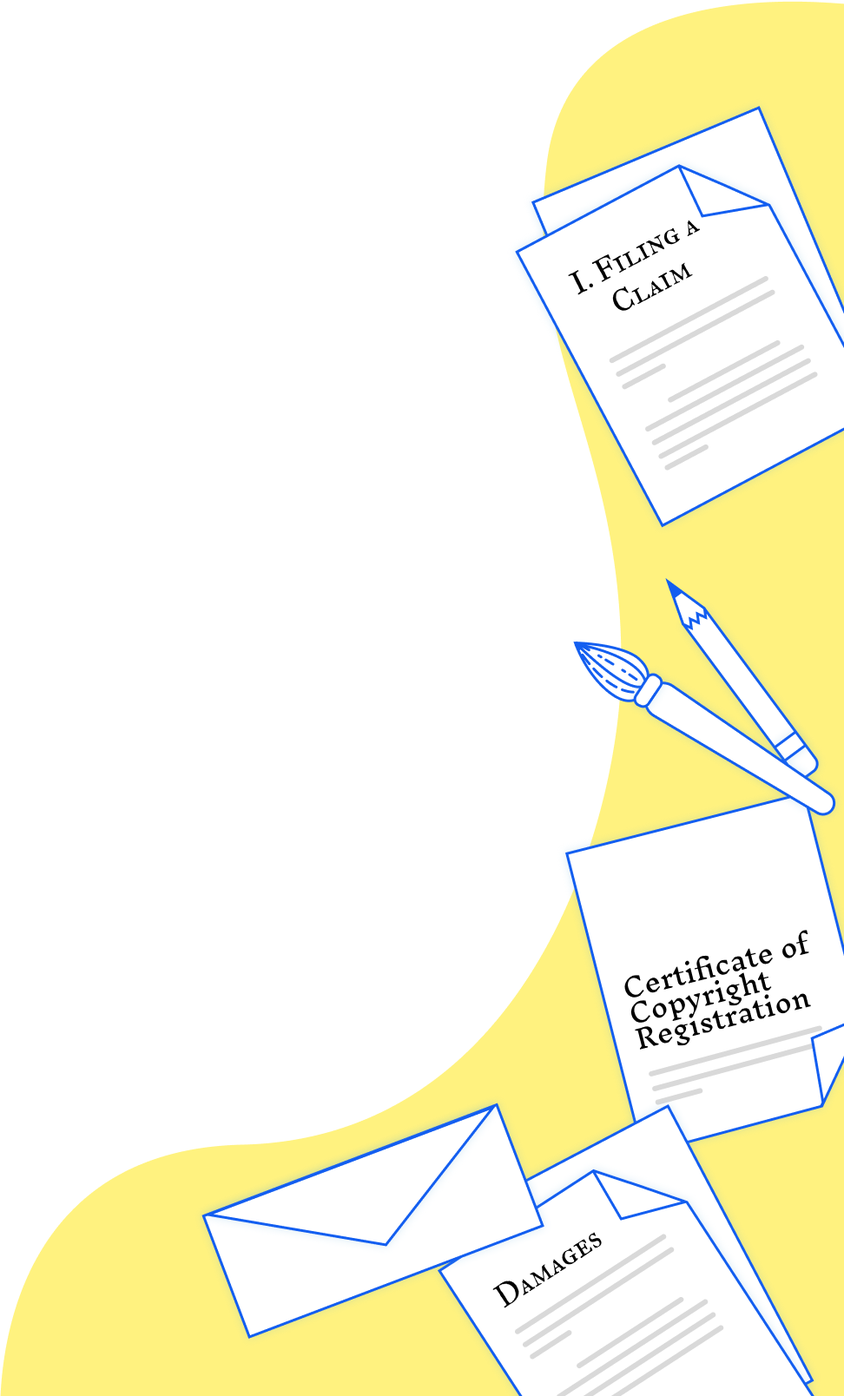
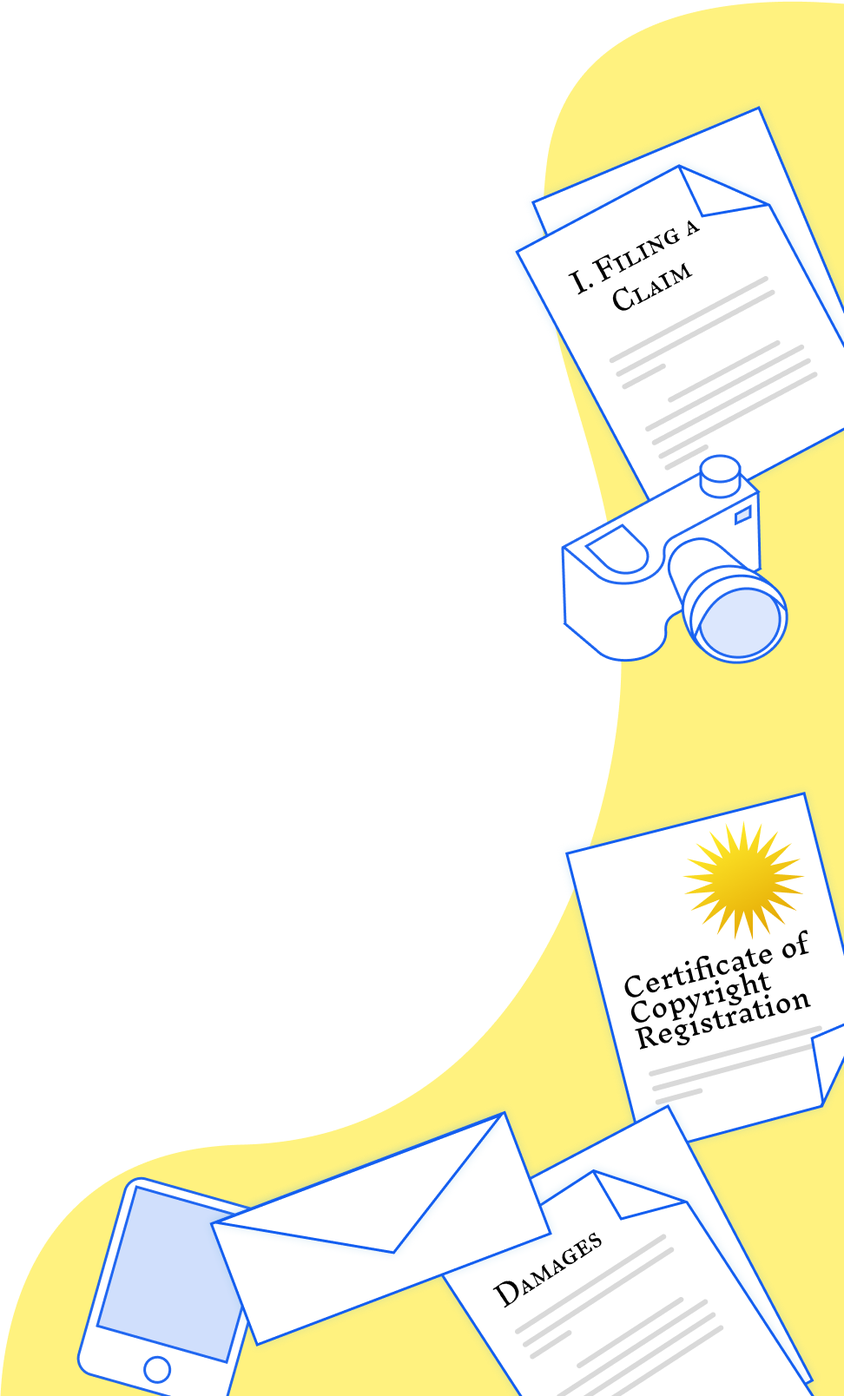
Footnotes, updated copy, fixed cover art

Changed region(s): [[0.6481, 0.3109, 0.9877, 0.6841], [0.0926, 0.7774, 0.6173, 1.0], [0.5556, 0.8396, 0.6481, 0.9017]]

diff --git a/index.html b/index.html
@@ -120,8 +120,8 @@
 
 				<h2>About the guide</h2>
 
-				<p>Maybe you are a creator who feels their work was copied and wants to set things right. Maybe you recently received a claim that you copied someone else’s work. Or maybe you’re just curious about the Copyright Claims Board (CCB). 
-				Regardless of what brought you here, this document is a starting point and a guide for creators. This guide helps you navigate the CCB, but it is not comprehensive, and there will be moments when outside resources are pointed to for additional guidance.</p>
+				<p>Maybe you are a creator who feels their work was copied and wants to set things right. Maybe you recently received a claim that you copied someone else’s work. Or maybe you’re just curious about the Copyright Claims Board (CCB).</p>
+				<p>Regardless of what brought you here, this document is a starting point and a guide for creators. This guide helps you navigate the CCB, but it is not comprehensive, and there will be moments when outside resources are pointed to for additional guidance.</p>
 
 				<img src="assets/Meet Characters.svg" alt="Images of three figures asking questions about their intellectual property issues" />
 			</div>
@@ -131,11 +131,11 @@
 			<div class="section" id="what-is-copyright">
 				<h1>What is copyright?</h1>
 
-				<p>Imagine you spend hours painting a beautiful landscape—after weeks of work, you upload an image of your painting to share with the world in your online portfolio. A few days later, you see a copy of your painting sold as a print on an online marketplace. Have your intellectual property rights been violated?</p>
+				<p><span class="blue">Imagine you spend hours painting a beautiful landscape—</span>after weeks of work, you upload an image of your painting to share with the world in your online portfolio. A few days later, you see a copy of your painting sold as a print on an online marketplace. Have your intellectual property rights been violated?</p>
 
-				<p>Intellectual property refers to creations of the mind, such as inventions and artistic works [ ]. Intellectual property rights allow individuals to protect their work by preventing others from reproducing or exploiting their intellectual creations [ ]. Intellectual property rights include copyrights, patents, trademarks, and design rights [2]. We’re focusing on copyright here.</p>
+				<p><span class="blue">Intellectual property refers to creations of the mind, such as inventions and artistic works <a href="#footnote-1">[1]</a>.</span> Intellectual property rights allow individuals to protect their work by preventing others from reproducing or exploiting their intellectual creations <a href="#footnote-2">[2]</a>. Forms of intellectual property include copyright, patent, and trademark <a href="#footnote-2">[2]</a>. We’re focusing on copyright here. Copyright is the body of law that deals with the ownership and use of works such as software, architecture, art, and music <a href="#footnote-3">[3]</a>.</span>
 
-				<p>Copyright is “the body of law that deals with the ownership and use of works of literature, music, and art.”[ ] The basic purpose of copyright is to “enrich our society's wealth of culture and information.”[3] Congress draws power from the US Constitution to enact copyright laws to “promote the progress of science and useful arts[.]”[ ] Because more than one person can share intellectual property simultaneously, copyright law helps protect artistic labor by creating a boundary around what is and isn’t for the artist to own. In this way, copyright law promotes innovation because artists know they can be paid for their work. Copyrights eventually expire if not renewed, returning works to the public domain [20].</p>
+				<p>Copyright laws “promote the progress of science and useful arts . . .” <a href="#footnote-4">[4]</a> because they incentivize people to develop new intellectual property. Copyright law protects artistic labor by creating a boundary around what work creators can guard through legal protections. In this way, copyright law promotes innovation because artists know they can be paid for their protected work. The basic purpose of copyright is to “enrich our society's wealth of culture and information” <a href="#footnote-3">[3]</a>.</p>
 
 
 				<br>
@@ -145,26 +145,27 @@
 				<h4>Copyright Upon Fixation</h4>
 				<span class="blue">The right to register a work for copyright</span>
 
-				<p>Today, creators earn a copyright upon fixation after completing their work.  Creators’ works are automatically copyrighted upon “fixation” [ ]. To qualify for fixation, a work must be:</p>
+				<p>Today, creators earn a copyright upon fixation after completing their work <a href="#footnote-7">[7]</a>. Creators’ works are automatically copyrighted upon <span class="blue">“fixation”</span><a href="#footnote-8">[8]</a>. To qualify for fixation, a work must be:</p>
 
 				<ol>
 					<li>fixed in a tangible medium of expression (e.g. a musical work on a record),</li>
-					<li>perceived, reproduced, or otherwise communicated, either directly or with the aid of a machine or device [5].</li>
+					<li>perceived, reproduced, or otherwise communicated, either directly or with the aid of a machine or device <a href="#footnote-8">[8]</a>.</li>
 				</ol>
 
 				<p>Thinking back to the landscape painting example—the work is fixed as soon as you finish the painting. At that moment, you earn a copyright over the work.</p>
 
-				<p>With fixation, you gain the right to register for a copyright to protect it. Beyond that, copyrights alone do not establish legal protections. This is why the U.S. Copyright Office recommends that creators still register their work for copyright to publicly record their ownership status [ ].</p>
+				<p>With fixation, you gain the right to register for a copyright of your work. Copyright gives you the legal right to exclude others, but you can't defend your work by suing until you register. This is why the U.S. Copyright Office recommends that creators still register their work for copyright to publicly record their ownership status <a href="#footnote-9">[9]</a>.</p>
 				
+
 				
-				<h4>Copyright Registration</h4>
+				<h4>Registered Copyright</h4>
 				<span class="blue">The right to legally defend your work</span>
 				
-				<p>Unlike copyrights upon fixation, copyright registration creates legal benefits.   You cannot bring a claim or litigate an issue of copyright without registering your copyright.  Upon fixation, you gain the right to register for copyright, but you do not necessarily earn the right to defend your copyright legally without registration. You must have a registered copyright to bring infringement claims and seek monetary relief through the legal system. This is the key distinction between copyright and copyright registration [6].
+				<p>Unlike copyrights upon fixation, <span class="blue">copyright registration creates legal benefits. You cannot bring a claim or litigate an issue of copyright without registering your copyright <a href="#footnote-10">[10]</a></span>. Upon fixation, you gain the right to register for copyright, but you do not necessarily earn the right to defend your copyright legally without registration. You must have a registered copyright to bring infringement claims and seek monetary relief through the legal system. This is the key distinction between copyright and a registered copyright.</p>
 
 				<br>
 				<h4>How do you register for a copyright?</h4>
-				<p>Applying for registration requires an application, a filing fee ($65), and a copy of the work (which the Office calls a “deposit”) [ ], [22]. You can bring a claim by filing a complaint to a federal court or by filing your claim online with the Copyright Claims Board. Once again, you can copyright many different forms of art. These forms of art include digital art (like photography), physical art (like painting or sculpture), and musical works (like musical composition). Before looking at how to bring a claim at the CCB, let’s look more closely at some terms you may want to familiarize yourself.</p>
+				<p>Applying for registration requires an application, a filing fee ($65), and a copy of the work (which the Office calls a “deposit”) <a href="#footnote-11">[11]</a>, <a href="#footnote-6">[6]</a>. Once again, you can copyright many different forms of art. These forms of art include digital art (like photography), physical art (like painting or sculpture), and musical works (like musical composition). Once you have a registered copyright, you can bring a claim against another party at the CCB or federal court. The CCB importantly requires you to have a registered or pending copyright to bring infringement claims. Before looking at how to bring a claim at the CCB, let’s look more closely at some terms you may want to familiarize yourself.</p>
 				<br>
 
 				<div class="box">
@@ -184,24 +185,26 @@
 			<div class="section"  id="what-is-ccb">
 				<h1>What is the Copyright Claims Board (CCB)?</h1>
 
-				<p>In December 2020, the Copyright Alternative in Small-Claims Enforcement Act of 2020 (CASE Act) endowed the Copyright Office with the power to establish the Copyright Claims Board (called the “CCB”) [ ]. The CCB was established by the federal government with the goal of expanding “access to justice” making “the copyright system as understandable and accessible to as many members of the public as possible.” [ ]</p>
+					<p>In December 2020, the Copyright Alternative in Small-Claims Enforcement Act of 2020 (CASE Act) gave the Copyright Office the power to establish the Copyright Claims Board (called the “CCB”) <a href="#footnote-12">[12]</a>. The CCB was established by the federal government with the goal of expanding “access to justice” making “the copyright system as understandable and accessible to as many members of the public as possible.” <a href="#footnote-13">[13]</a></p>
 
-				<p>The CCB is the Copyright Office’s approach to resolving copyright disputes online. Three presiding officers, each with deep expertise in copyright law, make case determinations and lead the CCB. Court hearings and proceedings are conducted fully online, removing the barrier to entry that can occur when proceedings occur in court. The CCB is designed for claimants to navigate without an attorney, though you are welcome to hire one. Although litigants can represent themselves in federal court, some may find this easier to do in the CCB’s claim process.</p>
+					<p>The Copyright Office’s approach to resolving copyright disputes online is the CCB. Three presiding officers, each with deep expertise in copyright law, make case determinations and lead the CCB. Court hearings and proceedings are conducted <span class="blue">fully online</span>, reducing the barrier to entry that can occur when proceedings occur in court. The CCB is designed for claimants to navigate without an attorney, though you are welcome to hire one. Although litigants can represent themselves in federal court, some may find this easier in the CCB’s claim process. </p>
 
-				<p>The CCB sees all kinds of copyright cases. As of 2023, the most common claims were for pictorial, graphic, or sculptural works. Architectural claims (e.g. based on an architectural firm’s design of a home) were the least common.</p>
+					<p>The CCB sees all kinds of copyright cases. As of 2023, the most common claims were for pictorial, graphic, or sculptural works.</p>
 
 				<br>
 				<img src="assets/CCB-pie-chart.svg" alt="A pie chart showing the distribution of types of work represented in CCB claims between 6/16/2022 to 10/31/2022" />
-				<div class="caption">This chart is based on data provided by the Library of Congress [ ].</div>
+				<div class="caption">This chart is based on data provided by the Library of Congress <a href="#footnote-14">[14]</a>.</div>
 				<br>
+								
+				<p>Unlike federal court, the CCB’s <span class="blue">jurisdiction is limited</span> to claims for copyright infringement, noninfringement, and misrepresentation in situations involving notices sent under the Digital Millennium Copyright Act (DMCA) <a href="#footnote-15">[15]</a>, <a href="#footnote-16">[16]</a>.</p> 
 
-				<p>Unlike federal court, the CCB’s jurisdiction is limited to claims of copyright infringement, claims seeking declarations that specific activities do not infringe copyright; and claims of “misrepresentation” in notices sent under the Digital Millennium Copyright Act (DMCA).</p>
+				<p><span class="blue">Notably, participation in the CCB is also fully voluntary.</span> While a claimant (the person who brings the claim to the CCB) may raise a valid argument, a respondent (the person who responds to the claim) can decide whether to participate in CCB proceedings (more on this later). If a respondent chooses to opt out, a claimant can still bring a lawsuit against that respondent in federal court. </p>
 
-				<p>Notably, participation in the CCB is also fully voluntary. While a claimant may raise a valid argument, respondents can decide whether to participate in CCB proceedings (more on this later). If a respondent chooses to opt out, a claimant can still bring a lawsuit against that respondent in federal court.</p>
+				<p>A respondent can also file a counterclaim, or a claim rebutting the claimant’s original claim. If a respondent files a counterclaim, it must be related to the original claim. Counterclaims are also limited to the types of claims in the CCB’s jurisdiction and must arise from the same “transaction or occurrence” (the same facts and circumstances) as the original claim. </p>
+				
+				<p>Neither party can bring a claim before the CCB seeking more than $30,000 in
+				total damages (more on this later, as well!).</p>
 
-				<p>If a respondent files a counterclaim, it must be related to the original claim. Counterclaims are also limited to the types of claims in the CCB’s jurisdiction and must arise from the same “transaction or occurrence” (the same facts and circumstances) as the original claim.</p>
-
-				<p>Neither party can bring a claim before the CCB seeking more than $30,000 in total damages (more on this later, as well!).</p>
 			</div>
 
 			<div class="content-divider"></div>
@@ -228,8 +231,8 @@
 					</li>
 					<li>The CCB is a more approachable court system.
 					<ul>
-						<li>The CCB is entirely online, and there are some advantages to a digital court system. There are text boxes to input information in the CCB’s online forms.</li>
-						<li>This helps you to figure out the information you need to file a claim and navigate court proceedings.</li>
+						<li>The CCB is entirely online, and there are some advantages to a digital court system. The CCB’s online forms have text boxes for input information.</li>
+						<li>The online forms will help you figure out the information you need to file a claim and navigate court proceedings.</li>
 					</ul></li>
 					<li>There is a low filing fee—filing your claim and proceedings to an active case require $40 and $60, respectively.</li>
 					<li>The administration is fully remote, negotiating travel costs and conflicts with other commitments.</li>
@@ -287,9 +290,9 @@
 				<p>When you file a claim, you’ll need to indicate the compensation you are owed. The list below summarizes some issues to consider:</p>
 				<ul>
 					<li>The CCB only allows for actual or statutory damages. If you think you have a better chance of seeking higher damages in federal court, then the CCB may not be your best option.</li>
-					<li>If you are seeking damages under $5,000, you may want to consider filing under a simplified CCB “Smaller Claims” track. This track will involve only one presiding officer, who plays a more prominent role in the case. The CCB published a helpful table highlighting the key differences between this track and the default track in its handbook for Smaller Claims (Page 3).</li>
-					<li>A claimant bringing an infringement claim can seek an award of actual damages and the infringer’s profits, statutory damages, or no damages. The claimant must choose which type of awards they are seeking before the Board makes its final determination, and they should do this no later than when the claimant submits their written testimony in the proceeding. Statutory damages are capped at $15,000 per infringed work (not per infringement) or $7,500 if the work wasn’t registered in a timely manner (as described below under “Statutory Damages”).  For more information on damages, see the CCB book on statutory damages.</li>
-					<li>If you choose to participate in CCB-facilitated settlement discussions, a Copyright Claims Officer other than the one handling the day-to-day aspects of the proceeding will be assigned to assist you at a settlement conference. For more information on settlements, see the CCB handbook on settlements (Page 4).</li>
+					<li>If you are seeking damages under $5,000, you may want to consider filing under a simplified CCB “Smaller Claims” track. This track will involve only one presiding officer, who plays a more prominent role in the case. The CCB published a helpful table highlighting the key differences between this track and the default track in its handbook for <a href="https://ccb.gov/handbook/Smaller-Claims.pdf">Smaller Claims (Page 3)</a>.</li>
+					<li>A claimant bringing an infringement claim can seek an award of actual damages and the infringer’s profits, statutory damages, or no damages. The claimant must choose which type of awards they are seeking before the Board makes its final determination, and they should do this no later than when the claimant submits their written testimony in the proceeding. Statutory damages are capped at $15,000 per infringed work (not per infringement) or $7,500 if the work wasn’t registered in a timely manner (as described below under “Statutory Damages”).  For more information on damages, <a href="https://ccb.gov/handbook/Damages.pdf">see the CCB book on statutory damages.</a></li>
+					<li>If you choose to participate in CCB-facilitated settlement discussions, a Copyright Claims Officer other than the one handling the day-to-day aspects of the proceeding will be assigned to assist you at a settlement conference. For more information on settlements, see the <a href="https://ccb.gov/handbook/Settlement.pdf">CCB handbook on settlements (Page 4)</a>.</li>
 				</ul>
 
 			</div>
@@ -368,7 +371,7 @@
 
 			<div class="section" id="ccb-stages">
 				<h2>What is the claims process like?</h2>
-				<p>This section of the Creator Guide summarizes information from the CCB’s handbooks. These handbook chapters offer specific information about each stage of a claim. For more information on the claims process, please consult the CCB’s complete list of handbooks [24].</p>
+				<p>This section of the Creator Guide summarizes information from the CCB’s handbooks. These handbook chapters offer specific information about each stage of a claim. For more information on the claims process, please consult the CCB’s complete list of handbooks <a href="#footnote-19">[19]</a>.</p>
 
 				<div class="ccb-stage-header collapsed-content" for="ccb-stage-1">
 					<span class="stage-number">Stage 1:</span> Filing a Claim</div>
@@ -470,7 +473,7 @@
 
 			<div class="section" id="making-a-strong-claim">
 				<h2>What makes a claim strong?</h2>
-				<p>While the CCB’s filing forms will guide you through this process, there are some fields that you may want to consider more carefully. The strength of your claim is generally evaluated based on whether you can prove each element of that claim – you must satisfy all the elements of the claim to prevail in your case. The CCB’s presiding officers will look at the evidence submitted and the cases you make to determine whether you have satisfied these elements. You will also need to show the officers that you will be able to prove each element of your claim to survive compliance review [11].  Remember to answer these questions about how you can support each element when drafting a claim.</p>
+				<p>While the CCB’s filing forms will guide you through this process, there are some fields that you may want to consider more carefully. The strength of your claim is generally evaluated based on whether you can prove each element of that claim – <span class="blue">you must satisfy all the elements of the claim</span> to prevail in your case. The CCB’s presiding officers will look at the evidence submitted and your argument to determine whether you have satisfied these elements. Even when describing your claim in your initial filing, you may want to show the CCB officers <span class="blue">that you will later be able to prove the essential elements of your copyright claim</span> <a href="#footnote-20">[20]</a>. Remember to answer these questions about how you can support each element when drafting a claim.</p>
 
 				<h4>Infringement Claims</h4>
 				<table class="claims-table">
@@ -482,19 +485,18 @@
 					</thead>
 					<tr>
 						<td class="claims-table-col-1">
-							You must have ownership of a valid copyright. Your work must be registered or pending registration.
+							You must have ownership of a valid (or pending) copyright. 
 						</td>
 						<td class="claims-table-col-2">
-							Did you assign the copyright to someone else? <br><br>
-							Are you still a beneficial owner of the copyright?<br><br>
-							Are there multiple authors involved? If this is a work of “joint authorship” any of the joint authors can enforce the copyright.<br><br>
-							Was this a work for hire? “Employers” who commission work are “authors” under the law.
+							Did you assign the copyright to someone else? 
+							Are there multiple authors involved <a href="#footnote-18">[18]</a>? 
+							Was this a work for hire <a href="#footnote-21">[21]</a>? If so, you may not own the rights to the work.
 						</td>
 						<td class="claims-table-col-3">
-							Communications (digital or print) supporting your copyright registration. 
+							Proof that you, and you alone, created the work.
 						</td>
 						<td class="claims-table-col-4">
-							A screenshot of the email confirming your copyright registration or a picture of your copyright registration.
+							A screenshot or picture of your work from the day that you signed your work with a date of creation; a screenshot or scan of your certificate of registration.
 						</td>
 					</tr>
 					<tr>
@@ -542,9 +544,7 @@
 				<br><br><br>	
 				<h4>Noninfringement Claims</h4>
 				
-				<p>Noninfringement claims are very similar to infringement claims, but with one key difference: you need to prove that you and the respondent are in a genuine dispute over whether there is infringement. If you can prove this, the respondent's burden will fall on them to prove every element of infringement outlined above. </p>
-				
-				<p>The elements in this case do not map exactly onto the types of evidence you may want to present, but note the elements first before reviewing types of evidence:</p>
+				<p>You may bring a noninfringement claim if the respondent accused you of infringing on their work, but you disagree and want to legally establish that your conduct does not establish infringement. Noninfringement claims are very similar to infringement claims, but with one key difference: you need to prove that you and the respondent are in a genuine dispute over whether there is infringement. If you can prove a dispute, the respondent will need to prove every element of infringement outlined above. </p> 
 
 				<table class="claims-table">
 					<thead>
@@ -562,7 +562,7 @@
 						</td>
 						<td class="claims-table-col-3">
 							A screenshot of the letter.<br><br>
-							A timestamp demonstrating the date of creation was before the other work was created.
+							A cease-and-desist letter from the respondent or other correspondence to indicate that you are in a copyright dispute.
 						</td>
 					</tr>
 					<tr>
@@ -573,7 +573,7 @@
 							The takedown notice of your content that is attributable to the respondent.
 						</td>
 						<td class="claims-table-col-3">
-							A screenshot of the letter.
+							A screenshot of the notice.
 						</td>
 					</tr>
 					<tr>
@@ -581,10 +581,10 @@
 							The respondent’s accusations have interfered with your activities.
 						</td>
 						<td class="claims-table-col-2">
-							Proof that the respondent does not have exclusive rights to the work.
+							Proof that you changed your own plans because of the respondent’s accusations.
 						</td>
 						<td class="claims-table-col-3">
-							An image of the copyright holder’s registration from the Copyright Office.
+							Records that you changed your plans (e.g. you delayed the release of your own work) or changed your work in response to the respondent.
 						</td>
 					</tr>	
 					<tr>
@@ -592,10 +592,10 @@
 							The respondent told someone else that your activities constituted infringement.
 						</td>
 						<td class="claims-table-col-2">
-							Proof that the work that you made and the work the respondent claims has been infringed are in fact different.
+							Communications by the respondent with these accusations.
 						</td>
 						<td class="claims-table-col-3">
-							Screenshots of the works and notes about their key differences.
+							A screenshot or copy of the communications sent.
 						</td>
 					</tr>																																
 				</table>
@@ -682,8 +682,7 @@
 							Images or screenshots showing the difference between how the online service provider acted with the information as opposed to how they normally act.
 						</td>
 						<td class="claims-table-col-4">
-							Screenshot or image of emails sent between you and the service provider about the misrepresentation.<br><br>
-							Image or screenshot of the service providers content moderation policy.
+							Screenshot or image of emails sent between you and the service provider about the misrepresentation.
 						</td>
 					</tr>
 					<tr>
@@ -721,7 +720,7 @@
 					<li><input type="checkbox" checked>Include a detailed description of your claim and how it fulfills each element, with screenshots and digital evidence supporting each assertion.</li>
 					<li><input type="checkbox" checked>If you amend and refile, submit your refile by the deadline in your scheduling order.</li>
 					<li><input type="checkbox" checked>Serve your respondent the materials given to you by the CCB and check the service rules in your respondent's state to ensure compliance with the specific service rules.<br>
-					<class="blue">Remember that your service will not comply if:</class="blue">
+					<span class="blue">Remember that your service will not comply if:</span>
 					<ul>
 						<li>You or an involved party delivered a copy of the materials.</li>
 						<li>You included other materials in the service packet.</li>
@@ -745,22 +744,40 @@
 					<p>If you feel that any of these technologies have infringed on your work or choose to use them in your work, you might want to consider a few things before bringing your claim to the CCB. This area of the law is evolving and subject to change.</p>
 
 					<h4>ARTIFICIAL INTELLIGENCE & ART</h4>
-					<p>Artificial intelligence tools, like DALL-E or Midjourney, are trained on images from around the world. If you have posted images of your art online, AI tools have likely used these images to develop and create new images.
-					If you see an image from AI that looks like a work you created, you may feel that the AI tool infringed your copyright. In our current copyright climate, AI companies may argue that their AI-based images are “fair use” and do not infringe copyright protection [17].</p>
 
-					<p>If you think of using AI to create new artwork, you may struggle to register the generated work. The Copyright Office believes that AI is not human and does not deserve copyright protection [16], [17]. Your AI artwork might lose copyright protections.</p>
+					<p>Generative Artificial Intelligence (GAI) models, like those powering DALL-E, Midjourney, and Stable Diffusion, are trained on images from all over the Internet. If you have posted images of your art online, AI tools have likely used these images to develop and create new images. AI thus creates two main copyright issues: inputs and outputs. Creators have argued that both AI inputs and outputs raise copyright issues.</p>
 
-					<p>While the current copyright landscape for AI may seem bleak, it is important to remember that the Copyright Office has adapted many policies over the 20th and 21st centuries to accommodate new forms of technology. It may only be a matter of years before the office begins to recognize AI’s impact on copyright law. One of the issues for the office may be the confluence of ideas and expression. For example, does a creator own the text they input into an AI image generator? If cases continue to raise issues related to AI and copyright, it might force the office to reconsider how AI is understood.</p>
+					<p><strong>Inputs •</strong> Because AI trains on images publicly available on the Internet, generative AI systems can learn from images in their training process. As a creator, you may worry that your protected work was used to enrich one of these models.</p>
+
+					<p><strong>Outputs •</strong> AI can also generate images that appear substantially like an existing work or a creator’s unique art style. By training on existing images, generative AI borrows from pre-existing works.</p>
+
+					<p>If you see an image from AI that looks like a work you created, you may feel that the AI tool infringed your copyright. In our current copyright climate, AI developers may argue that AI-based images are “fair use” and do not infringe copyright protection <a href="#footnote-23">[23]</a>. Whether or not you can bring a claim of copyright infringement against an AI tool that generated an image like your own or used your image to generate a new image is still up for debate.</p>
 
 					<br><br>
+
+					<p><strong>Can you own copyrights for works that you used GAI models to create?</strong></p>
+					<br>
+					<p>If you used AI to create a new artwork or a portion of an artwork, whether you can claim copyright for your work depends on a variety of factors. The Copyright Office’s current position is that only human creators can earn copyright protection. AI (or even an animal!) creators are therefore excluded from protection <a href="#footnote-32">[32]</a>, <a href="#footnote-23">[23]</a>. “When an AI technology determines the expressive elements of its output, the generated material is not the product of human authorship. As a result, that material is not protected by copyright and must be disclaimed in a registration application” <a href="#footnote-33">[33]</a>.</p>
+
+					<p>On the other hand, in the case of works “containing AI-generated material, “the Office will consider whether the AI contributions are the result of ‘mechanical reproduction’ or instead of an author's “own original mental conception, to which [the author] gave visible form” <a href="#footnote-33">[33]</a>. In this sense, whether your AI work can earn copyright protection is a case-by-case inquiry <a href="#footnote-33">[33]</a>. The work must have sufficient human input to constitute human authorship and, consequently, copyright protections. For example, “a human may select or arrange AIgenerated material in a sufficiently creative way that “the resulting work as a whole constitutes an original work of authorship” <a href="#footnote-33">[33]</a>. In sum, whether you can earn copyright protection for a work with partial AI influence will depend on how much AI was used in your work and how you used AI in your creative process. Simply inputting a prompt into an AI generator tool to create an image is probably not enough to earn authorship rights.</p>
+
+					<br><br>
+
+					<p><strong>Can AI models own copyrights to the works that they are used to create?</strong></p>
+
+					<p>It is “well established” that copyright can only protect work created by human authors <a href="#footnote-33">[33]</a>. AI models are not human and cannot own copyright rights <a href="#footnote-32">[32]</a>, <a href="#footnote-23">[23]</a> based on the Copyright Office’s current policy. While the current copyright landscape for AI may be lagging the pace of AI development, it is important to remember that the Copyright Office has adapted many policies over the 20th and 21st centuries to accommodate new forms of technology. It may only be a matter of years before the Office begins to recognize AI’s impact on copyright law. One of the issues for the office may be  the confluence of ideas and expression. For example, does a creator own the text they input into an AI image generator? It is important to remember, as well, that the amount of original expression within a work can determine copyright outcomes. If cases continue to raise issues related to AI and copyright, the office might reconsider how AI is interpreted.</p>
+
 					<h4>NFTS & THE BLOCKCHAIN</h4>
 
-					<p>Like AI art, non-fungible tokens (NFTs) form a complicated copyright portrait. You may want to bring a claim of infringement if you sold an NFT and did not transfer the copyright ownership to your buyer or if you bought an NFT and owned the copyright, but the creator continues to license the image. Ownership “over the intellectual property of an NFT is not always clearly defined” [22]. When an NFT is minted or sold, “a blockchain’s smart contract will automatically execute the transfer of ownership, including any rules applicable to the NFT like terms of purchase or resale opportunities” [22]. This “often means that when an NFT is traded, a license that informs collectors about what they can and can’t do with their new asset goes along with it” [22]. As legal scholars James Grimmelmann, Yan Ji, and Tyler Kell claim:</p>
-						<p class="quote-block">"If you buy an oil painting from an artist, you don’t also receive ownership of the copyright. Yes, you own the original, but the artist retains the copyright, and they can sell prints of it if they like. If you want to buy the copyright too, you’ll need to get a separate agreement. The same is true for NFTs. Unless an NFT explicitly gives owners copyright interests as opposed to just access to the artwork, owners should not assume that they have any rights to use the artwork or to stop others from using it [21]."</p>
+					<p>Like AI art, non-fungible tokens (NFTs) invoke complicated copyright questions. NFTs allow creators to introduce artistic images onto the blockchain, seamlessly transferring ownership to an NFT. This seamless transfer of ownership also poses new challenges. Because of the blockchain’s decentralized design, when creators transfer NFTs to others, they must also transfer a “key” to the block holding the NFT. Once a buyer has this key, they technically own the NFT but may not own the copyright. An NFT creator must separately transfer the copyright ownership to a buyer to give them the rights associated with the copyright. As an NFT creator, it is your choice whether you want to transfer the exclusive rights that come with a registered copyright to a buyer. </p>
 
-					<p>Individuals who seek to sell NFT artwork should also consider whether they seek to sell the copyright of their work. They might want to only give holders the rights to “use, copy and display” the NFT, for example. If you are the creator of an NFT, and you sold your work, you need to remember that the sale of your work does not automatically transfer copyrights. When selling your NFT, include or not include a sale of the copyright. Once again, simply because your NFT was sold does not necessarily give owners the right to copy your work.</p>
+					<p>If an NFT buyer uses an image in ways that exceed their rights (for example, if they do not own the copyright), you may want to bring an infringement claim. Ownership “over the intellectual property of an NFT is not always clearly defined” <a href="#footnote-34">[34]</a>. When an NFT is minted or sold, “a blockchain’s smart contract will automatically execute the transfer of ownership, including any rules applicable to the NFT like terms of purchase or resale opportunities” <a href="#footnote-34">[34]</a>. This “often means that when an NFT is traded, a license that informs collectors about what they can and can’t do with their new asset goes along with it” <a href="#footnote-34">[34]</a>. As legal scholars James Grimmelmann, Yan Ji, and Tyler Kell claim: </p>
 
+						<p class="quote-block">"If you buy an oil painting from an artist, you don’t also receive ownership of the copyright. Yes, you own the original, but the artist retains the copyright, and they can sell prints of it if they like. If you want to buy the copyright too, you’ll need to get a separate agreement. The same is true for NFTs. Unless an NFT explicitly gives owners copyright interests as opposed to just access to the artwork, owners should not assume that they have any rights to use the artwork or to stop others from using it <a href="#footnote-35">[35]</a>."</p>
 
+					<p>Individuals who plan to sell NFT artwork should also consider whether they also intend to sell the copyright protecting their artwork. They might want to only give buyers of their NFT the rights to use and display, but not their NFT, for example. </p>
+
+					<p>If you are the creator of an NFT, and you sold your work, you need to remember that the sale of your work does not automatically transfer copyrights. When selling your NFT, be sure to think about whether you want to sell the copyright too and, if you do, to include that in your sale. Once again, simply because your NFT was sold does not necessarily give buyers the right to copy your work. </p>
 			</div>
 
 			<div class="content-divider"></div>
@@ -780,10 +797,46 @@
 				</ul>
 			</div>
 
-
-
-
-
+			<br><br><br>
+			<div class="section" id="endnotes">
+				<h4>Endnotes</h4><br>
+				<div id="footnote-1">[1] See Protect Your Intellectual Property, International Trade Administration, https://www.trade.gov/protect-intellectual-property (accessed Mar. 18, 2024, 2:06 PM).</div>
+				<div id="footnote-2">[2] John P. McManus, Protecting Your Information: Forms of Intellectual Property, 4 (2012).</div>
+				<div id="footnote-3">[3] Robert A. Gorman, Copyright Law, 1 (1991).</div>
+				<div id="footnote-4">[4] U.S. Const. art. I, § 8, cl. 8.</div>
+				<div id="footnote-5">[5] See Welcome to the Public Domain, Stanford Libraries, https://fairuse.stanford.edu/overview/publicdomain/welcome/ (accessed Mar. 18, 2024, 2:42 PM).</div>				
+				<div id="footnote-6">[6] See Fees, United States Copyright Office, https://www.copyright.gov/about/fees.html (accessed Mar. 18, 2024, 3:17 PM).</div>
+				<div id="footnote-7">[7] See Copyright in General, United States Copyright Office, https://www.copyright.gov/help/faq/ (noting how copyright exists from the moment the work is created) (accessed Mar. 19, 2024, 3:31 PM).</div>
+				<div id="footnote-8">[8] 17 U.S.C. § 102.</div>
+				<div id="footnote-9">[9] See Copyright Basics, United States Copyright Office (rev. Sep. 2021), https://www.copyright.gov/circs/circ01.pdf (accessed Mar. 18, 2024, 3:12 PM). </div>
+				<div id="footnote-10">[10] With the CCB specifically, you must have a registered or pending registered copyright to bring infringement claims but may not need one for noninfringement or misrepresentation claims.</div>
+				<div id="footnote-11">[11] See What Photographers Should Know About Copyright, United States Copyright Office, https://www.copyright.gov/engage/photographers/#:~:text=Registering%20Your%20Work (accessed Mar. 18, 2024, 3:13 PM).</div>
+				<div id="footnote-12">[12] See Copyright Small Claims and the Copyright Claims Board, United States Copyright Office, https://www.copyright.gov/about/small-claims/ (accessed Mar. 18, 2024, 3:13 PM).</div>
+				<div id="footnote-13">[13] See Holland Gormley, The Copyright Claims Board Celebrates Its First Year, Library of Congress Blogs (Jun. 26, 2023), https://blogs.loc.gov/copyright/2023/06/the-copyright-claims-board-celebratesits-first-year/ (accessed Mar. 18, 2024, 3:23 PM).</div>
+				<div id="footnote-14">[14] See Nora Scheland, Checking in with the Copyright Claims Board Nearly Eighteen Months After Opening Day, Library of Congress Blogs (Nov. 6, 2023),https://blogs.loc.gov/copyright/2023/11/checking-in-with-the-copyright-claims-board-nearly-eighteenmonths-after-opening-day/ (accessed Mar. 18, 2024, 3:25 PM).</div>
+				<div id="footnote-15">[15] The Digital Millennium Copyright Act of 1998, U.S. Copyright Office (December 1998), available at https://www.copyright.gov/legislation/dmca.pdf.</div>
+				<div id="footnote-16">[16] The DMCA establishes notice and takedown procedures. Copyright owners can submit notifications to service providers (under penalty of perjury) that content on their websites is infringing. Service providers can promptly remove or temporarily block access to the relevant content. If a person misrepresents important information that the service provider relies on to take down content, claimants whose content was taken down may be able to bring legal claims to remedy this.</div>
+				<div id="footnote-17">[17] Copyright Claims Board, Starting a Misrepresentation Claim (Jan. 2, 2024), https://ccb.gov/handbook/Misrepresentation-Claim.pdf.</div>
+				<div id="footnote-18">[18] If this is a work of “joint authorship,” any joint authors can enforce the copyright.</div>
+				<div id="footnote-19">[19] See Copyright Claims Board Handbook, United States Copyright Office (Jan. 2, 2024), https://ccb.gov/handbook/ (accessed Mar. 19, 2024, 3:40 PM).</div>
+				<div id="footnote-20">[20] See generally Compliance Review, CCB Handbook (Jan. 2, 2024), https://ccb.gov/handbook/Compliance.pdf (accessed Mar. 18, 2024, 3:25 PM).</div>
+				<div id="footnote-21">[21] “Employers” who commission work are “authors” under the law. Even if you created a work, you may not own it if it was done as a work for hire for an employer or someone else.</div>
+				<div id="footnote-22">[22] Protecting Copyrighted Content Online: Understanding the Legal Process for Content Removal, DMCA (rev. Jun. 13, 2023), https://www.dmca.com/FAQ/What-is-a-DMCA-Takedown (accessed Mar. 20, 2024, 8:44 PM).</div>
+				<div id="footnote-23">[23] See Adi Robertson, Who Owns AI Art?, The Verge (Nov. 15, 2023), https://www.theverge.com/23961021/ai-art-copyright-training-ownership-fair-use (accessed Mar. 18, 2024, 4:14 PM).</div>
+				<div id="footnote-24">[24] Vincent Van Gogh, The Starry Night, 1889, oil on canvas, 73.7 x 92.1 cm, Museum of Modern Art, New York, https://www.moma.org/collection/works/79802/.</div>
+				<div id="footnote-25">[25] OpenAI DALL·E 2, Response to “create an image of a town with a moon in the background and make it look like a Van Gogh painting” (Mar. 2024).</div>
+				<div id="footnote-26">[26] Melissa Heikkilä, This artist is dominating AI-generated art. And he’s not happy about it., MIT Technology Review (Sep. 16, 2022), https://perma.cc/Y5BW-AUD3 (accessed Mar. 19, 2024).</div>
+				<div id="footnote-27">[27] Google LLC v. Oracle Am., Inc., 141 S. Ct. 1183, 1196 (2021) (citations omitted).</div>
+				<div id="footnote-28">[28] See Stephen Wolfson, The Complex World of Style, Copyright, and Generative AI, Creative Commons (Mar. 23, 2023), https://perma.cc/M8AC-8HCP (noting how some case law does recognize copyright protections for works based on their style, and explaining how one case recognized that two works can become “substantially similar” if they share a “style of representation.”).</div>
+				<div id="footnote-29">[29] See Malden Mills, Inc. v. Regency Mills, Inc., 626 F.2d 1112, 1113 (2d Cir. 1980) (finding two textile designs “substantially similar” and reversing the district court's opinion).</div>
+				<div id="footnote-30">[30] In one recent case, a federal appeals court opinion and dissent clashed on whether its holding permitted a party to copyright their artistic style. Williams v. Gaye, 895 F.3d 1106, 1138 (9th Cir. 2018) (In a case upholding a jury’s finding that Robin Thicke’s song Blurred Lines infringed on Marvin Gaye’s Got to Give it Up, the majority affirmed that their holding did “not grant license to copyright a musical style.”) The the dissenting opinion asserted that the “majority allow[ed] the Gayes to accomplish what no one has before: copyright a musical style.”). Id. (J. Nguyen, dissenting). </div>
+				<div id="footnote-31">[31] Artists including Greg Rutkowski have brought copyright claims to US courts to challenge their art styles being used by GAI models and companies. These cases are in progress, and a decision has not yet been reached. Andersen v. Stability AI Ltd., No. 23-CV-00201-WHO, 2023 WL 7132064 (N.D. Cal. Oct. 30, 2023); Jarred Briggs, AI Tech Enables Industrial-Scale Intellectual-Property Theft, Say Critics, The Wall Street Journal (Feb. 4, 2023), https://www.wsj.com/articles/i-chatgpt-dall-e-microsoft-rutkowskigithub-artificial-intelligence-11675466857; Seyfarth Shaw LLP, Some Stability For AI Defendants: Judge Dismisses All But One Claim in Andersen et. al., v. Stability AI LTD., et. al. (Nov. 9, 2023), https://perma.cc/U8LM-MSB4</div>
+				<div id="footnote-32">[32] See Blake Brittain, US Copyright Offices Denies Protection for Another AI-Created Image, Reuters (Sept. 18, 2024), https://www.reuters.com/legal/litigation/us-copyright-office-denies-protectionanother-ai-created-image-2023-09-06/ (accessed Mar. 18, 2024, 4:16 PM).</div>
+				<div id="footnote-33">[33] Copyright Registration Guidance: Works Containing Material Generated by Artificial Intelligence, 88 Fed. Reg. 16,190 (Mar. 16, 2023) (codified at 37 CFR 202), available at https://www.federalregister.gov/d/2023-05321/p-24 (accessed Mar. 20, 2024).</div>
+				<div id="footnote-34">[34] See Daniel Kuhn, Ryder Ripps, Bored Apes and ‘Owning’ an NFT, CoinDesk (date), https://www.coindesk.com/layer2/2022/05/19/ryder-ripps-bored-apes-and-owning-an-nft/ (accessed Mar. 18, 2024, 4:11 PM).</div>
+				<div id="footnote-35">[35] See James Grimmelman et. al, Copyright Vulnerabilities in NFTs, The Initiative for CryptoCurrencies and Contracts (Mar. 21 2022), https://medium.com/initc3org/copyright-vulnerabilities-in-nfts317e02d8ae26 (accessed Mar. 18, 2024, 4:04 PM).</div>
+				<div id="footnote-36">[36] See Yuga Labs, Inc. v. Ripps, No. CV 22-4355-JFW(JEMX), 2023 WL 3316748, at *16 (C.D. Cal. Apr. 21, 2023).</div>
+			</div>
 
 		</div>
 	</div>

diff --git a/css/style.css b/css/style.css
@@ -292,9 +292,14 @@ h4 {
   font-family: "Spline Sans Mono";
   font-weight: 600;
   margin-bottom: 0px;
-  color: #134EEA;
+  color: #394B59;
   text-transform: uppercase;
   margin-top: 30px;
+}
+
+a, a:visited {
+  text-decoration: none;
+  color: #137CBD;
 }
 
 img {
@@ -756,4 +761,11 @@ img {
 
 .flex-align-right {
   flex-direction: row-reverse;
+}
+
+#endnotes > div {
+  font-size: 11px;
+  color: #394B59;
+  margin-bottom: 10px;
+  line-height: 110%;
 }
